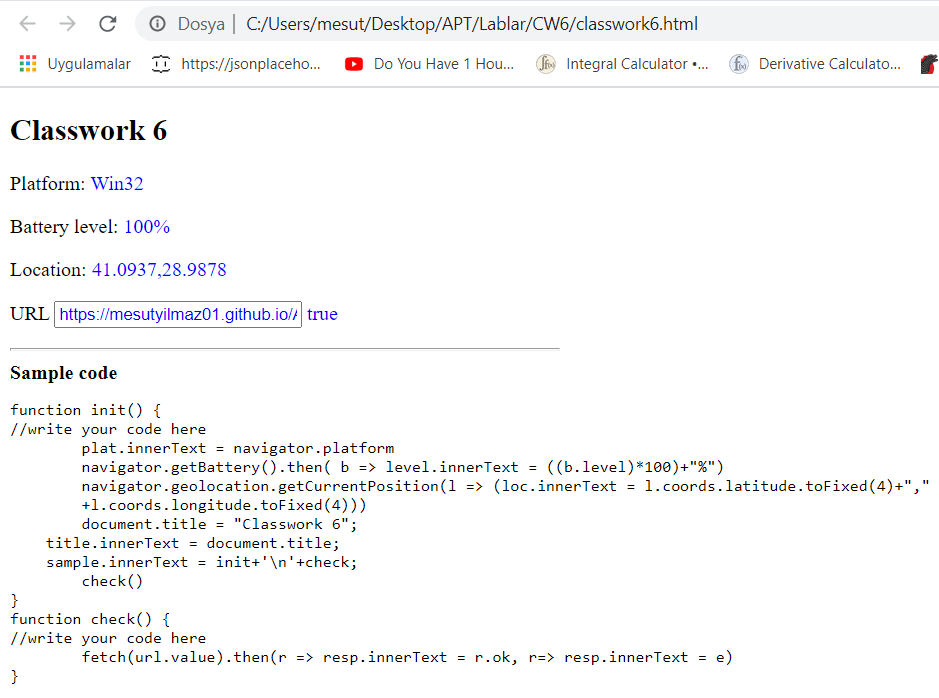
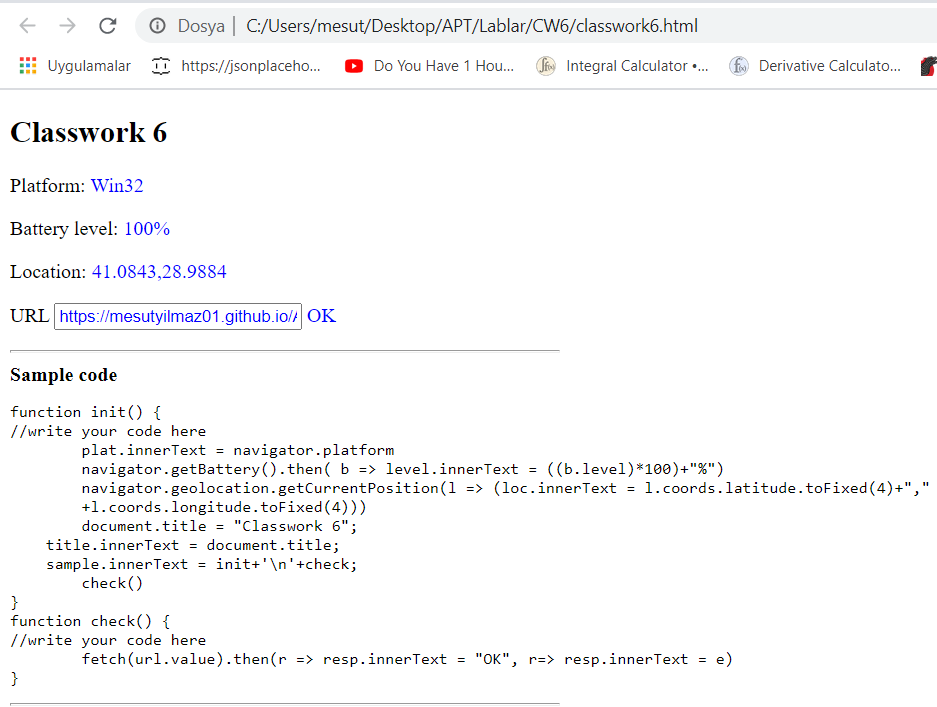
Eksik düzeltildi

diff --git a/Lablar/CW6/classwork6.html b/Lablar/CW6/classwork6.html
@@ -41,7 +41,7 @@
 // JavaScript comment
 function check() {
 //write your code here
-	fetch(url.value).then(r => resp.innerText = r.ok, r=> resp.innerText = e)
+	fetch(url.value).then(r => resp.innerText = "OK", r=> resp.innerText = e)
 }
 function init() {
 //write your code here
